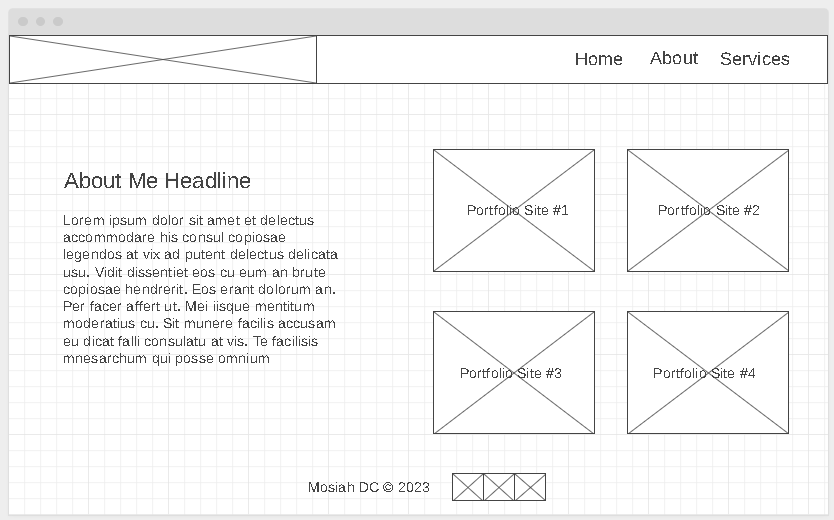
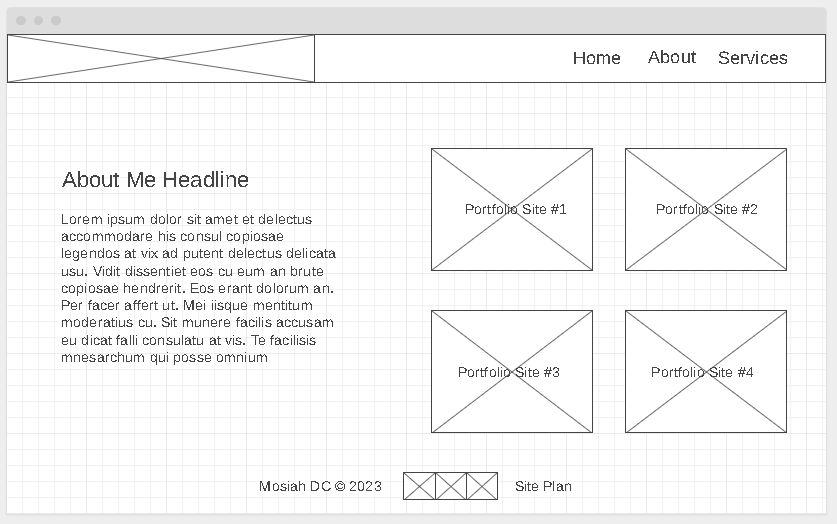
Changes to CSS and About Page

diff --git a/portfolio/styles/style.css b/portfolio/styles/style.css
@@ -138,7 +138,7 @@ nav a:hover:after {
     /* the color */
 
     width: var(--s);
-    aspect-ratio: 1;
+    aspect-ratio: 1/1;
     outline: calc(var(--s)/2) solid #0006;
     outline-offset: calc(var(--s)/-2);
     cursor: pointer;
@@ -221,7 +221,7 @@ h2 {
 
 #portfolio-site1 {
     grid-column: 5/6;
-    grid-row: 2/4;
+    grid-row: 3/5;
     background-image: var(--portfolio-image-1);
 }
 
@@ -231,7 +231,7 @@ h2 {
 
 #portfolio-site2 {
     grid-column: 7/8;
-    grid-row: 2/4;
+    grid-row: 3/5;
     background-image: var(--portfolio-image-2);
 }
 
@@ -241,7 +241,7 @@ h2 {
 
 #portfolio-site3 {
     grid-column: 5/6;
-    grid-row: 5/7;
+    grid-row: 6/8;
     background-image: var(--portfolio-image-3);
 }
 
@@ -251,7 +251,7 @@ h2 {
 
 #portfolio-site4 {
     grid-column: 7/8;
-    grid-row: 5/7;
+    grid-row: 6/8;
     background-image: var(--portfolio-image-4);
 }
 
